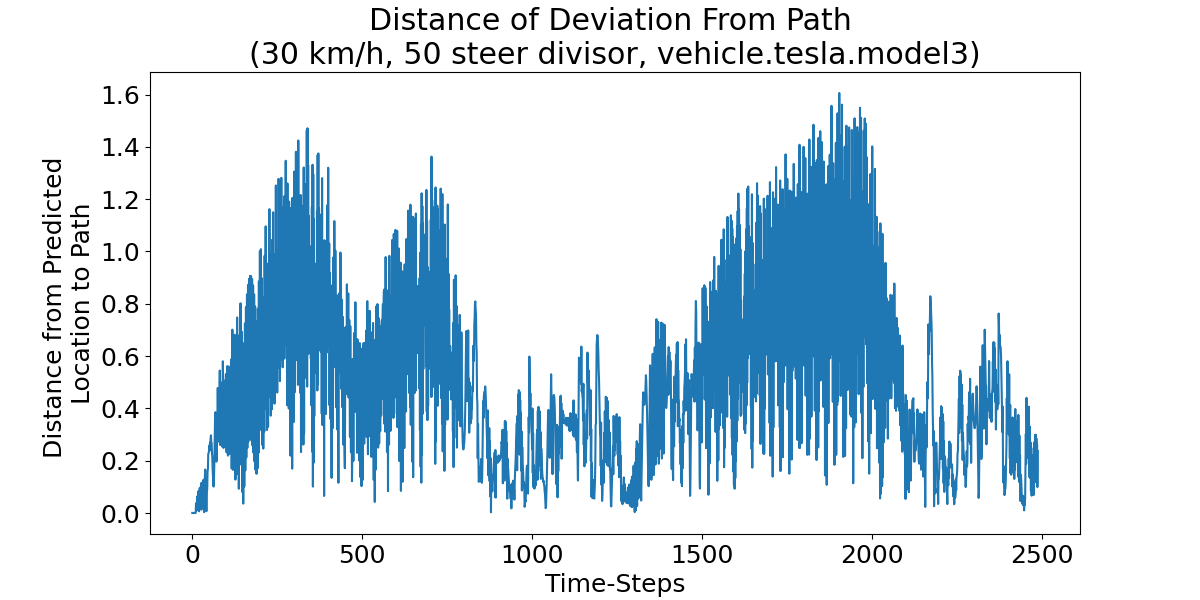
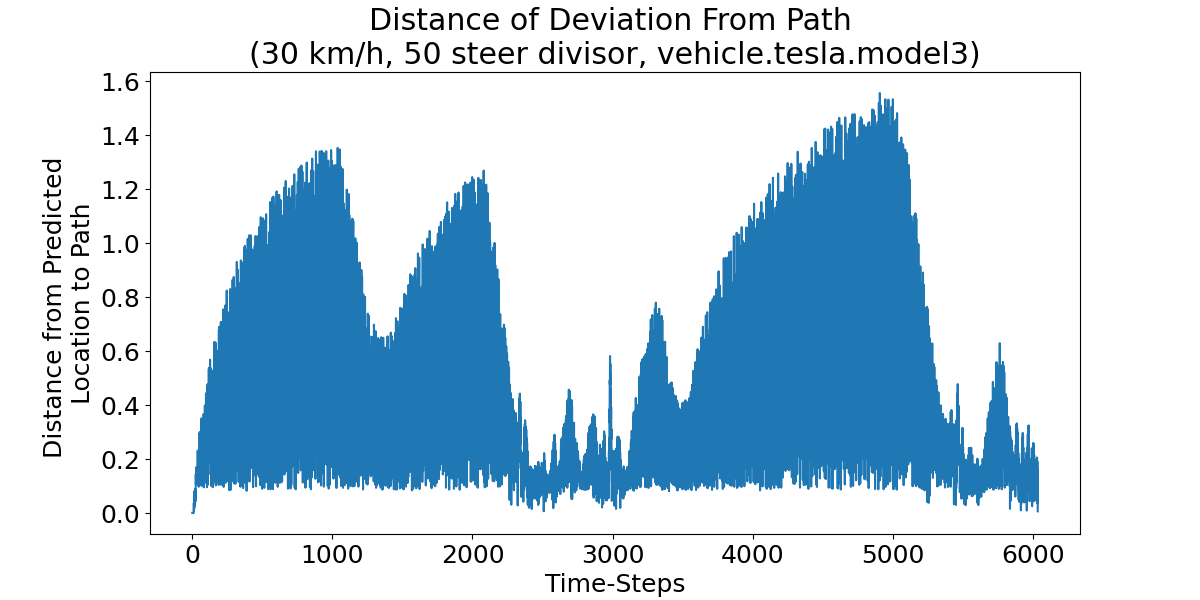
constant speed graphs

diff --git a/run/2024_03_21_25rl.py b/run/2024_03_21_25rl.py
@@ -366,8 +366,8 @@ def main():
             # # output = f'x, y: {x:.1f}, {y:.1f}'
             listDeltaTheta.append(deltaTheta)
             listLocations.append(vehicle.get_location())
-            # thresholdDeltaThetaNoSteer = 0.5e-10
-            thresholdDeltaThetaNoSteer = 5
+            thresholdDeltaThetaNoSteer = 0.5e-10
+            # thresholdDeltaThetaNoSteer = 5
             thresholdDeltaThetaSteer = 1e-1
             speedMinimum = 20
             speedTarget = TARGET_SPEED
